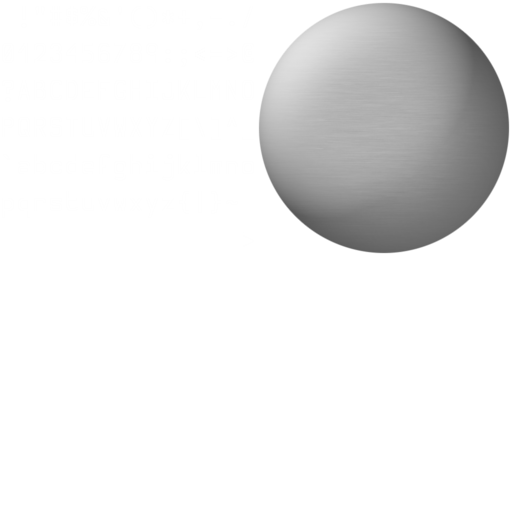
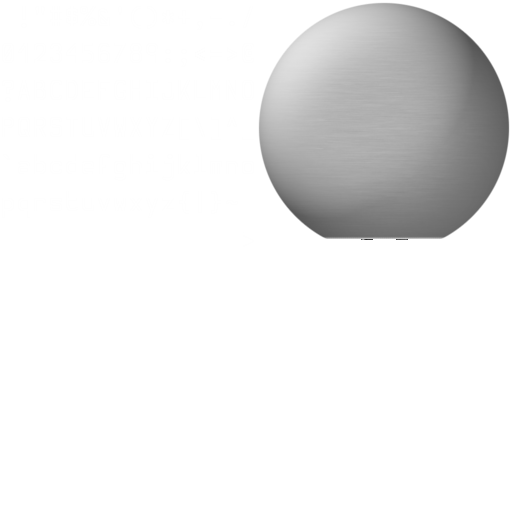
added belt tube

Changed region(s): [[0.625, 0.4375, 0.875, 0.5]]

diff --git a/src/initSprites.c b/src/initSprites.c
@@ -81,7 +81,7 @@ int vertBufSize;
 const int gunDistance = 12; // character widths between gun and queue
 int       beamSize;
 sprite   *beamSprites = NULL;
-const int gunSpritesSize = 1;
+const int gunSpritesSize = 2;
 sprite   *gunSprites = NULL;
 const int menuCursorSpritesSize = 3;
 sprite   *menuCursorSprites;
@@ -103,21 +103,36 @@ void init(void) {
 	beamSize = gunDistance*4;
 	beamSprites = malloc(sizeof(sprite)*beamSize);
 	// init gun sprites
-	const float texAtlGunYoffset = texAtlGlyphH/2;
+	const float texAtlGunYoffset = (texAtlGunW-texAtlGunH)/2;
 	gunSprites = malloc(sizeof(sprite)*gunSpritesSize);
-	gunSprites[0].dstCX = -gunDistance*texAtlGlyphW - texAtlGunW/2;
-	gunSprites[0].dstCY = txtOriginY_ - texAtlGunYoffset;
-	gunSprites[0].dstHW = texAtlGunW/2.0;
-	gunSprites[0].dstHH = texAtlGunH/2.0;
-	gunSprites[0].srcX  = texAtlGunX;
-	gunSprites[0].srcY  = texAtlGunY;
-	gunSprites[0].srcW  = texAtlGunW;
-	gunSprites[0].srcH  = texAtlGunH;
+	// belt tube
+	gunSprites[0].dstCX = -gunDistance*texAtlGlyphW - texAtlGunW/2.0;
+	gunSprites[0].dstCY = -videoH/4.0;
+	gunSprites[0].dstHW = texAtlBeltW/2.0;
+	gunSprites[0].dstHH = videoH/4.0;
+	gunSprites[0].srcX  = texAtlBeltX;
+	gunSprites[0].srcY  = texAtlBeltY;
+	gunSprites[0].srcW  = texAtlBeltW;
+	gunSprites[0].srcH  = texAtlBeltH;
 	gunSprites[0].mulR  = 0xff;
 	gunSprites[0].mulG  = 0xff;
 	gunSprites[0].mulB  = 0xff;
 	gunSprites[0].mulO  = 0xff;
 	gunSprites[0].rot   = 0.0;
+	// sphere
+	gunSprites[1].dstCX = -gunDistance*texAtlGlyphW - texAtlGunW/2;
+	gunSprites[1].dstCY = txtOriginY_ + texAtlGunYoffset;
+	gunSprites[1].dstHW = texAtlGunW/2.0;
+	gunSprites[1].dstHH = texAtlGunH/2.0;
+	gunSprites[1].srcX  = texAtlGunX;
+	gunSprites[1].srcY  = texAtlGunY;
+	gunSprites[1].srcW  = texAtlGunW;
+	gunSprites[1].srcH  = texAtlGunH;
+	gunSprites[1].mulR  = 0xff;
+	gunSprites[1].mulG  = 0xff;
+	gunSprites[1].mulB  = 0xff;
+	gunSprites[1].mulO  = 0xff;
+	gunSprites[1].rot   = 0.0;
 	// init menuCursorSprites
 	{
 		const float cursorX = txtOriginX_ - texAtlGlyphW*1.5;

diff --git a/src/glyphReactorLoop.c b/src/glyphReactorLoop.c
@@ -73,7 +73,7 @@ int glyphReactorLoop(int charEntered, int curFrame) {
 				visCharBeg++;
 				voice v = { // short rising pitch from floor to pitch of deleted glyph
 					// shape,         amp, sft, pos, inc
-					{  bkspShape,     0.7, 0.0, 0.0, vwInc}, // wave
+					{  bkspShape,     0.4, 0.0, 0.0, vwInc}, // wave
 					{  shape_default, 1.0, 0.0, 0.0, 0.0 }, // ampMod
 					{  shape_default, 1.0, 0.0, 0.0, 0.0 }, // incMod
 					{  shape_saw,     0.5, 0.5, 0.0, incFromPeriod(0.4)}, // ampEnv
@@ -85,7 +85,7 @@ int glyphReactorLoop(int charEntered, int curFrame) {
 				misBkspCount++;
 				voice v = { // short tone
 					// shape,         amp, sft, pos, inc
-					{  bkspShape,     1.0, 0.0, 0.0, vwInc }, // wave
+					{  bkspShape,     0.5, 0.0, 0.0, vwInc }, // wave
 					{  shape_default, 1.0, 0.0, 0.0, 0.0 }, // ampMod
 					{  shape_default, 1.0, 0.0, 0.0, 0.0 }, // incMod
 					{  shape_saw,     0.5, 0.5, 0.0, incFromPeriod(0.2)}, // ampEnv
@@ -196,12 +196,12 @@ int glyphReactorLoop(int charEntered, int curFrame) {
 	}
 	// draw gun
 	if (beamPhase <= 1) {
-		setColorFlashFromPhase(&gunSprites[0], beamPhase, charHue);
+		setColorFlashFromPhase(&gunSprites[1], beamPhase, charHue);
 		glBufferSubData(
-			GL_ARRAY_BUFFER,             // GLenum        target
-			sizeof(sprite)*gunVertBeg,   // GLintptr      offset
-			sizeof(sprite)*1,            // GLsizeiptr    size
-			(const GLvoid*)gunSprites    // const GLvoid *data
+			GL_ARRAY_BUFFER,               // GLenum        target
+			sizeof(sprite)*(gunVertBeg+1), // GLintptr      offset
+			sizeof(sprite)*1,              // GLsizeiptr    size
+			(const GLvoid*)&gunSprites[1]  // const GLvoid *data
 		);
 	}
 	glDrawArrays(GL_POINTS, gunVertBeg, gunSpritesSize);

diff --git a/src/initAudio.c b/src/initAudio.c
@@ -180,7 +180,7 @@ void setGlyphVoice(int voiceIndex, char c, bool correct) {
 		v[vo_wave].amp = 1.4;
 		v[vo_ampMod].shape = shape_sine;
 		v[vo_ampMod].inc = correct ? v[vo_wave].inc/2.0 : incFromFreq(shape_sine_len, freqFromPitch(originPitch-7));
-		v[vo_ampMod].amp = 0.5;
+		v[vo_ampMod].amp = correct ? 0.5 : 0.8;
 		v[vo_ampMod].shift = 1.5;
 	}
 	else if (c >= 'a' && c <= 'z') {
@@ -188,7 +188,7 @@ void setGlyphVoice(int voiceIndex, char c, bool correct) {
 		v[vo_wave].amp = 1.0 - (v[vo_wave].inc/0.06); // decrease the denominator to increase the amount of drop-off as pitch rises
 		v[vo_ampMod].shape = shape_sine;
 		v[vo_ampMod].inc = correct ? v[vo_wave].inc*2.0 : incFromFreq(shape_sine_len, freqFromPitch(originPitch+7));
-		v[vo_ampMod].amp = v[vo_wave].amp*0.7;
+		v[vo_ampMod].amp = correct ? v[vo_wave].amp*0.7 : v[vo_wave].amp*1.2;
 	}
 	else if (c >= 'A' && c <= 'Z') {
 		v[vo_wave].inc = incFromScaleStep(shape_sine_len, scaleStepFromAlphaStep(c - 'A'));

diff --git a/src/frameLoop.c b/src/frameLoop.c
@@ -25,6 +25,15 @@ int handleEvents(void) {
 						videoH = event.window.data2;
 						glViewport(0, 0, videoW, videoH);
 						glUniform2f(unif_scale, scaleX_, scaleY_);
+						// stretch gun belt
+						gunSprites[0].dstCY = -videoH/4.0;
+						gunSprites[0].dstHH =  videoH/4.0;
+						glBufferSubData(
+							GL_ARRAY_BUFFER,           // GLenum        target
+							sizeof(sprite)*gunVertBeg, // GLintptr      offset
+							sizeof(sprite)*1,          // GLsizeiptr    size
+							(const GLvoid*)gunSprites  // const GLvoid *data
+						);
 					break;
 				}
 				break;

diff --git a/img/texAtlas.h b/img/texAtlas.h
@@ -18,10 +18,14 @@
 #define texAtlGlyphsAsciiStart 32
 #define bkspChar 127
 
-#define texAtlGunX 258 // left edge
-#define texAtlGunY   2 // top edge
-#define texAtlGunW 252
-#define texAtlGunH 252
+#define texAtlGunX  258 // left edge
+#define texAtlGunY    2 // top edge
+#define texAtlGunW  252
+#define texAtlGunH  237
+#define texAtlBeltX 325 // left edge
+#define texAtlBeltY 239 // top edge
+#define texAtlBeltW 118
+#define texAtlBeltH   1
 
 #define texAtlMenuCursorX 240 // left edge
 #define texAtlMenuCursorY 233 // top edge
